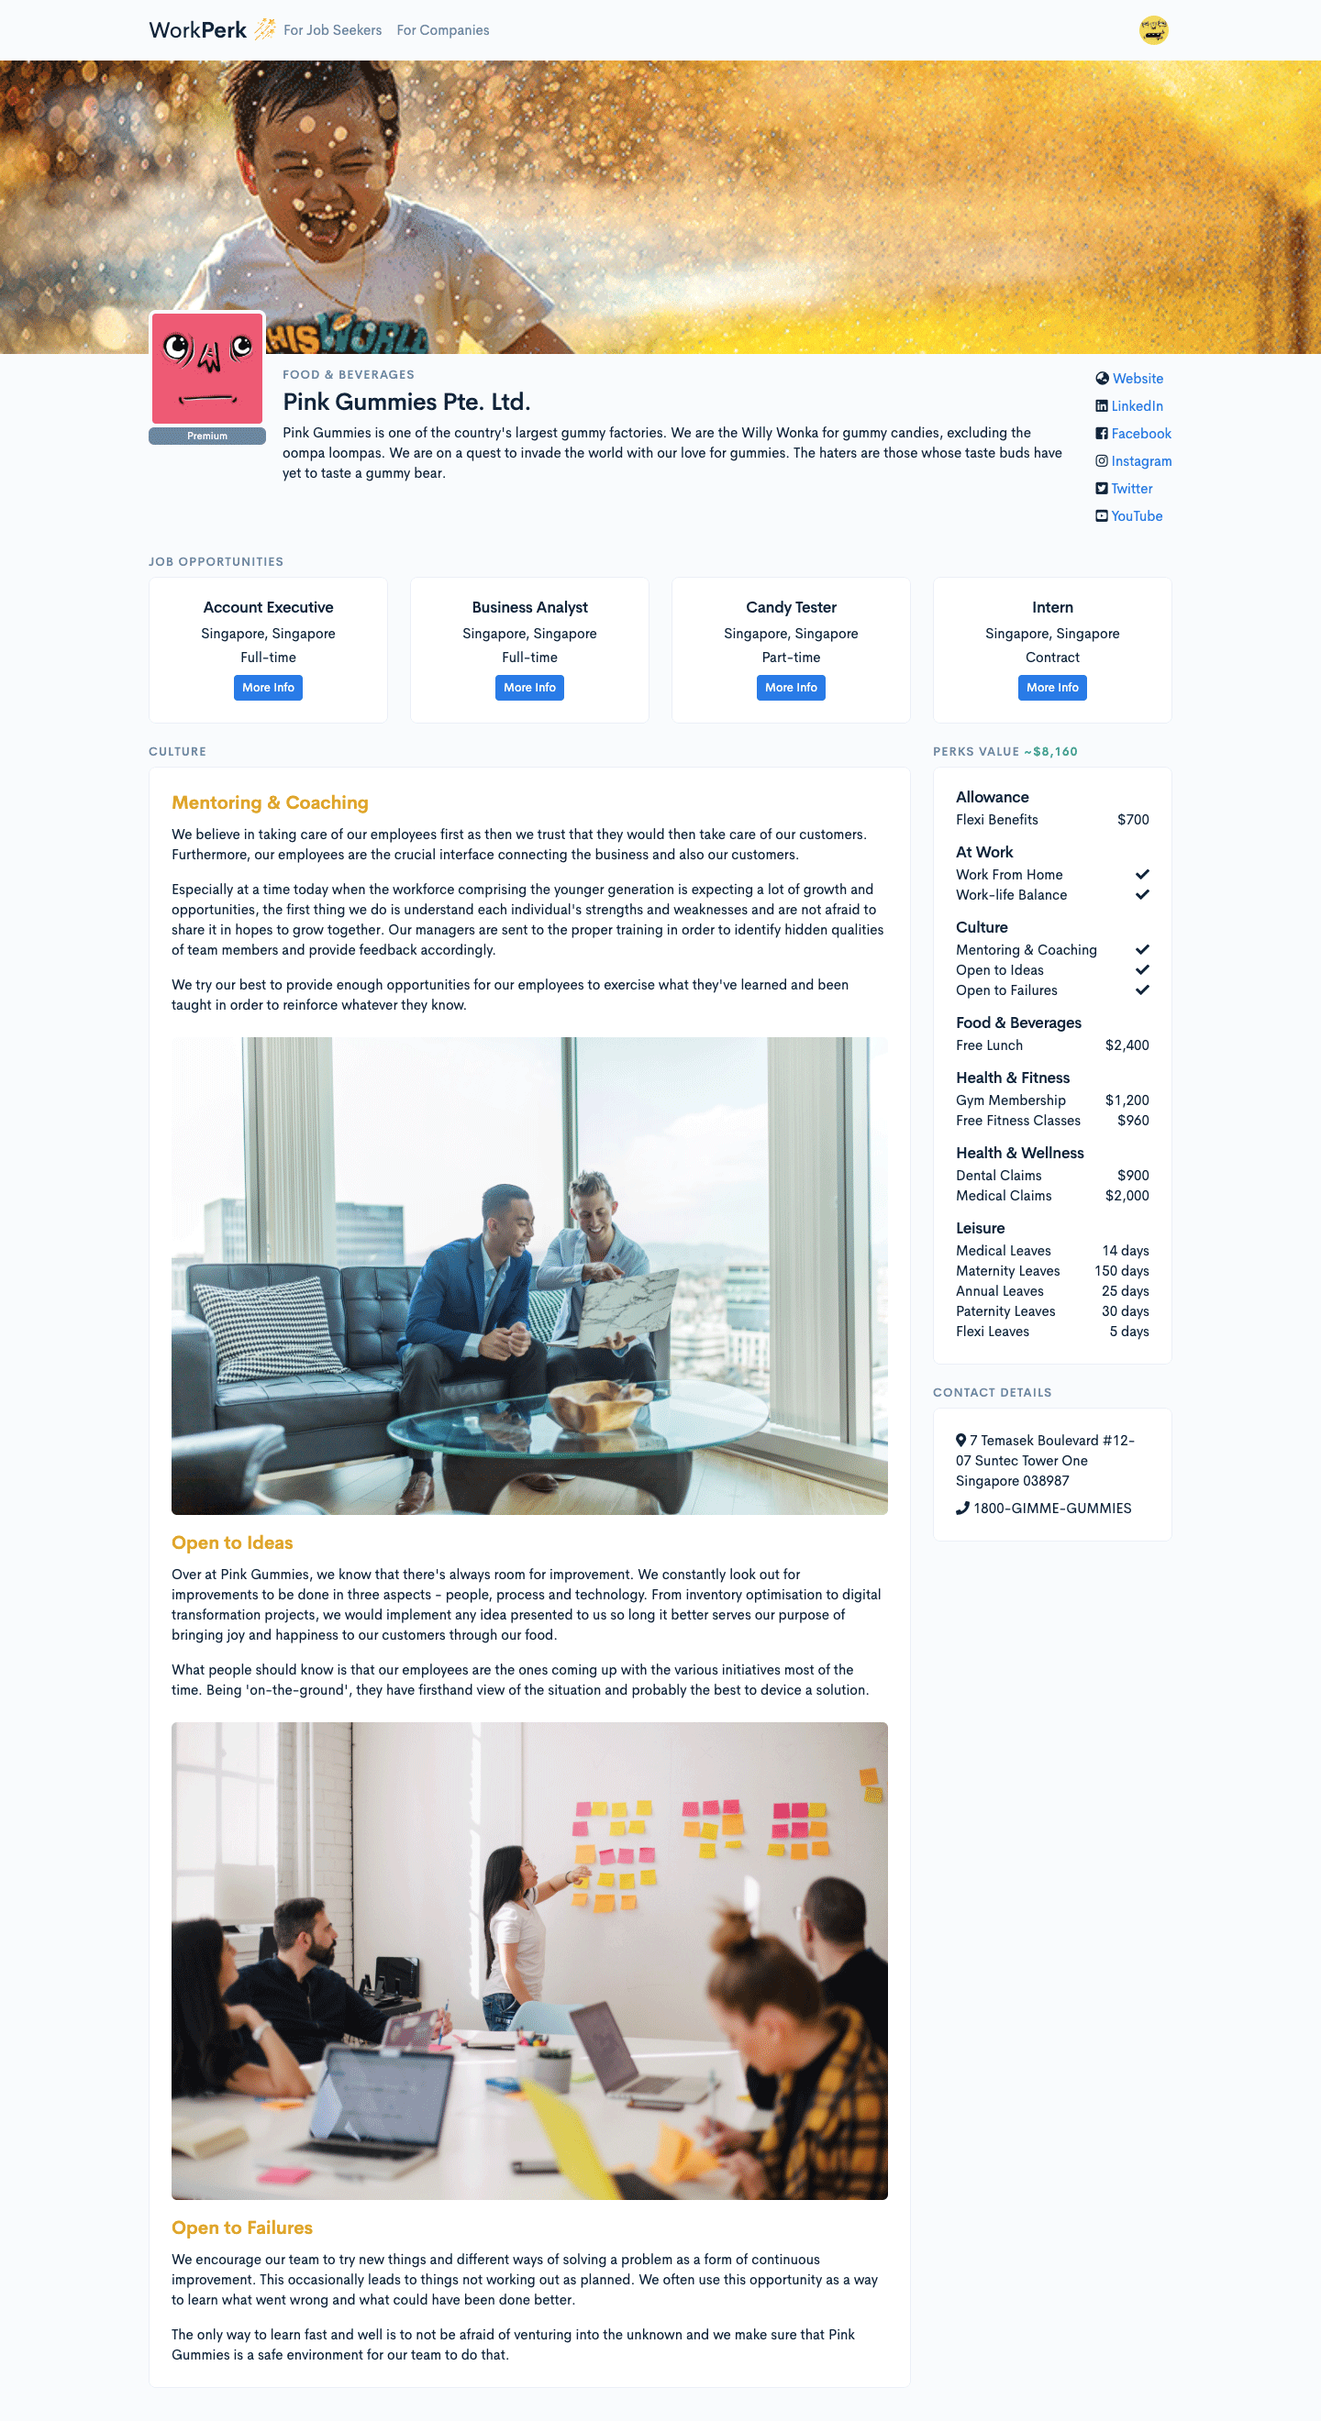
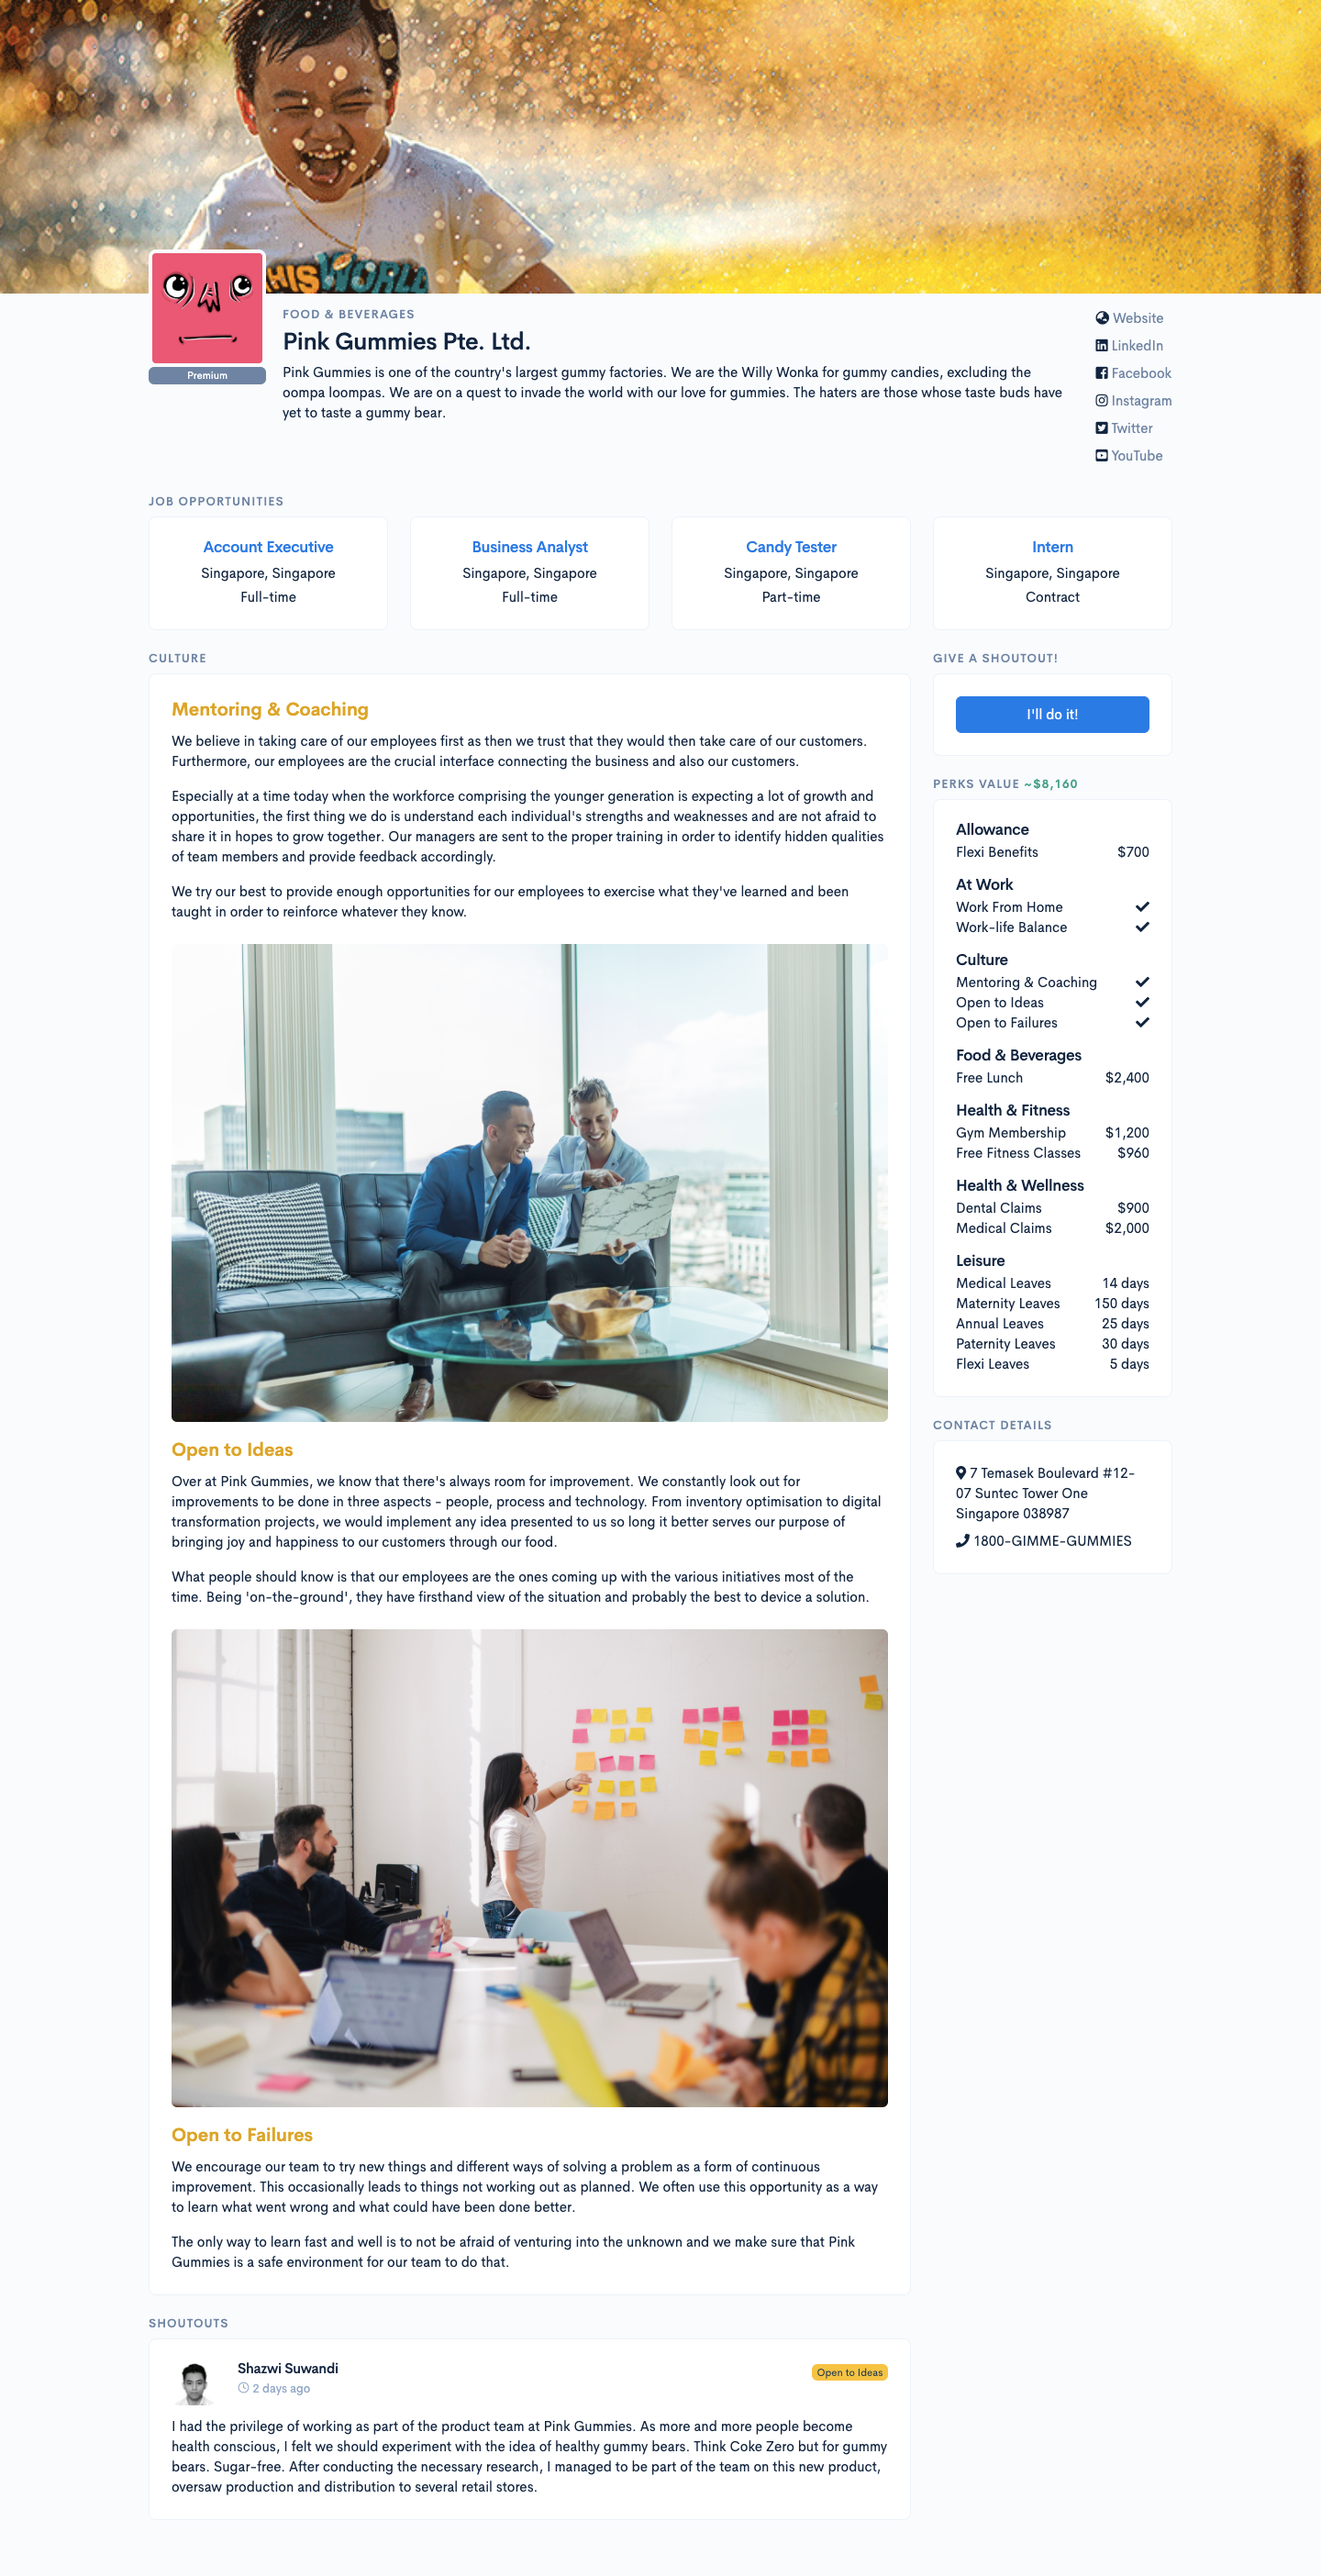
update

diff --git a/resources/views/companies/show.blade.php b/resources/views/companies/show.blade.php
@@ -191,7 +191,11 @@
               </figure>
               @endif -->
 
-              @if(count($cultureSubPerkDetail->cultureImages) > 0)
+              @if(count($cultureSubPerkDetail->cultureImages) == 1)
+                <figure class="figure" style="text-align: center; margin-bottom: 0rem;">
+                  <img src="https://storage.googleapis.com/talentail-123456789/{{$cultureSubPerkDetail->image}}" class="figure-img img-fluid rounded" style="width: 100%; border-radius: 5px; margin-bottom: 0rem; margin-top: 0.5rem;"/>
+                </figure>
+              @elseif(count($cultureSubPerkDetail->cultureImages) > 0)
                 <div class="row" style="padding-left: 9.5px; padding-right: 9.5px;">
                   @foreach($cultureSubPerkDetail->cultureImages as $cultureImage)
                   <div class="col-lg-4" style="height: 200px; padding: 2.5px;">
@@ -222,7 +226,7 @@
             
             <!-- Header -->
             <div class="mb-3">
-              <div class="row align-items-center">
+              <div class="row align-items-top">
                 <div class="col-auto">
                   
                   <!-- Avatar -->
@@ -255,6 +259,8 @@
                     @else
                       <span class="badge badge-light">Awaiting approval</span>
                     @endif
+                  @else
+                    <span class="badge badge-warning">Open to Ideas</span>
                   @endif      
                 </div>
               </div> <!-- / .row -->

diff --git a/resources/views/companies/culture.blade.php b/resources/views/companies/culture.blade.php
@@ -88,7 +88,7 @@
       for (var i = 0; i < array.length; i++) {
         var simplemde = new SimpleMDE({ 
           element: $("#subPerk_" + array[i])[0],
-          // toolbar: false
+          toolbar: false
         });
 
       }
